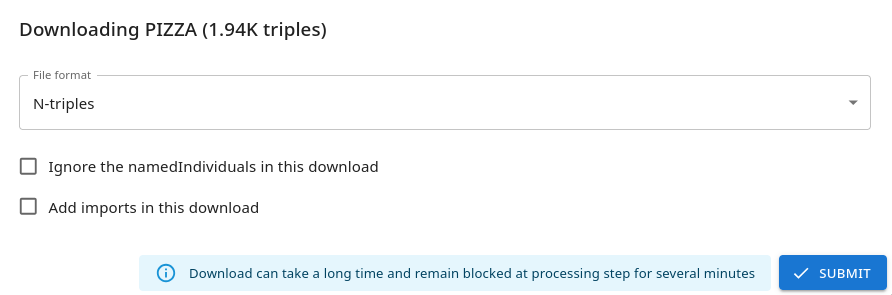
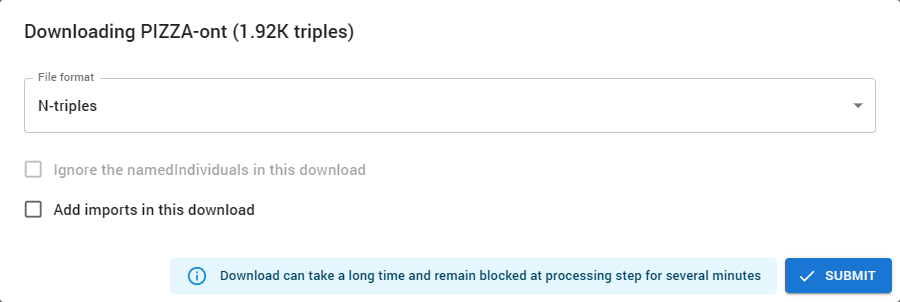
docs(usage): GraphManagement follows the current screens, with the upload, download, metadata and clear dialogs

diff --git a/docs/docs/usage/graphmanagement.md b/docs/docs/usage/graphmanagement.md
@@ -1,6 +1,6 @@
 # GraphManagement
 
-GraphManagement is the tool for managing RDF graphs in SousLeSens. It allows you to upload, view, and manage graph data for your configured sources.
+GraphManagement is the tool for managing the RDF graphs of the sources in SousLeSens. It lists the sources you can read, with the size of their graph, and lets you upload, download, describe and clear each graph.
 
 ```{contents} Table of Contents
 :depth: 3
@@ -8,86 +8,74 @@ GraphManagement is the tool for managing RDF graphs in SousLeSens. It allows you
 
 ## Overview
 
-GraphManagement provides a centralized interface to:
-
-- Upload RDF graphs to configured sources
-- View graph statistics (number of triples, etc.)
-- Manage graph lifecycle
-
-## Uploading a Graph
-
-### Upload Steps
-
-1. Navigate to the **GraphManagement** tool from the main navigation bar
-
-2. Select your source from the list of available sources
+Open **GraphManagement** from the **Tool** menu of the top panel.
 
 ![GraphManagement Overview](images/media/graphmanagement/graphmanagement-overview.png)
 
-3. Click **"Upload Graph"** or drag and drop your RDF file
+- **Search Sources by name** filters the list.
+- The table shows, for each source, its name (**Sources**), its **Graph URI**, its **Group** and its **Graph Size**, in triples. Click a column title to sort the list.
+- The **Actions** of each row are **Metadata**, **Upload**, **Download** and **Clear**. **Upload** and **Clear** are only active if you have **readwrite** access to the source.
+- **Download CSV**, under the table, downloads the list of the sources with their graph URI and their size.
 
-<!-- -->
+## Uploading a Graph
 
-![Graph Upload](images/media/graphmanagement/graph-upload.png)
+1. Find the source in the list and click **Upload** on its row.
 
-4. Select your RDF file:
+   ![Graph Upload](images/media/graphmanagement/graph-upload.png)
 
-    - Supported formats: **RDF/XML**, **Turtle**, **N-Triples**, **JSON-LD**
-    - Click **"Open"** or drop the file in the upload area
+2. Choose what to upload:
 
-5. Wait for the upload to complete:
+    - **Select a file to upload…** picks a file on your computer, or
+    - **Or upload from URL**: type the address of the file in **Graph URL**.
 
-    - Progress is displayed during upload
-    - Large graphs may take several minutes to process
+3. **Delete before upload** is checked by default: the triples already in the graph are deleted first, and the graph is replaced by the file. Uncheck it to add the triples of the file to the graph.
 
-6. Verify the upload:
-    - **Graph Size** displays the number of triples
-    - **Status** shows "Available" or similar indicator
+4. Click **Submit**. A progress bar shows the upload, then **Processing** while the triple store loads the file, and **Completed** at the end. A large graph can stay on **Processing** for several minutes. **Cancel** stops the upload.
+
+If the file contains blank nodes, a message tells you so: the blank nodes are converted to URIs, and the links between them may not be kept exactly.
 
 ## Supported RDF Formats
 
-GraphManagement supports the following RDF serialization formats:
-
-| Format    | Extension         | MIME Type               |
-| --------- | ----------------- | ----------------------- |
-| RDF/XML   | `.rdf`, `.xml`    | `application/rdf+xml`   |
-| Turtle    | `.ttl`, `.turtle` | `text/turtle`           |
-| N-Triples | `.nt`             | `application/n-triples` |
-| JSON-LD   | `.jsonld`         | `application/ld+json`   |
+| Format    | Extension | MIME Type               |
+| --------- | --------- | ----------------------- |
+| N-Triples | `.nt`     | `application/n-triples` |
+| Turtle    | `.ttl`    | `text/turtle`           |
+| RDF/XML   | `.rdf`    | `application/rdf+xml`   |
+| OWL/XML   | `.owl`    | `application/owl+xml`   |
+| N3        | `.n3`     | `text/n3`               |
+| TriG      | `.trig`   | `application/trig`      |
 
 ## Managing Existing Graphs
 
-### Replace a Graph
+### Download a Graph
 
-To replace an existing graph:
+1. Click **Download** on the row of the source.
 
-1. Select the source in GraphManagement
-2. Click **"Upload Graph"**
-3. Upload the new RDF file
-4. Confirm replacement when prompted
+   ![Graph Download](images/media/graphmanagement/graph-download.png)
 
-> **Warning**: Replacing a graph will delete all existing triples for that source.
+2. Choose the **File format**: **N-triples**, **RDF/XML** or **Turtle**. RDF/XML and Turtle need the SousLeSens Python API (`sls-py-api`), and are not offered for graphs above a size limit: use N-triples for them.
+3. Optionally check:
+    - **Ignore the namedIndividuals in this download**, to leave the individuals out,
+    - **Add imports in this download**, to add the graphs of the sources imported by this one.
+4. Click **Submit**. A large graph can take several minutes.
+
+### Metadata of a Graph
+
+**Metadata** shows the metadata of the graph (title, description, version...) as a table of **Type**, **Metadata** and **Value**.
+
+![Graph Metadata](images/media/graphmanagement/graph-metadata.png)
+
+**Add metadata** adds a row. Change the rows, then click **Save** to write them in the graph.
 
 ### Clear a Graph
 
-To clear a graph:
+1. Click **Clear** on the row of the source. The button is disabled if you do not have **readwrite** access to the source.
+2. The button turns into **OK** and **NO**: click **OK** to confirm, **NO** to cancel.
 
-1. Find the source in the list of GraphManagement
-2. Click **"Clear"** on its row. The button is disabled if you do not have **readwrite** access to the source
-3. Confirm
+   ![Graph Clear](images/media/graphmanagement/graph-clear.png)
 
-> **Warning**: This action cannot be undone. All the triples of the graph are permanently deleted.
+> **Warning**: This action cannot be undone. All the triples of the graph are permanently deleted. The source itself stays, with an empty graph.
 
-### Download a Graph
+### Replace a Graph
 
-To download/export a graph:
-
-1. Select the source in GraphManagement
-2. Click **"Download Graph"**
-
-<!-- -->
-
-![Graph Download](images/media/graphmanagement/graph-download.png)
-
-3. Choose the export format (RDF/XML, Turtle, etc.)
-4. Click **"Download"** to save the file
+Upload the new file with **Delete before upload** checked: the old triples are deleted, then the new file is loaded.
